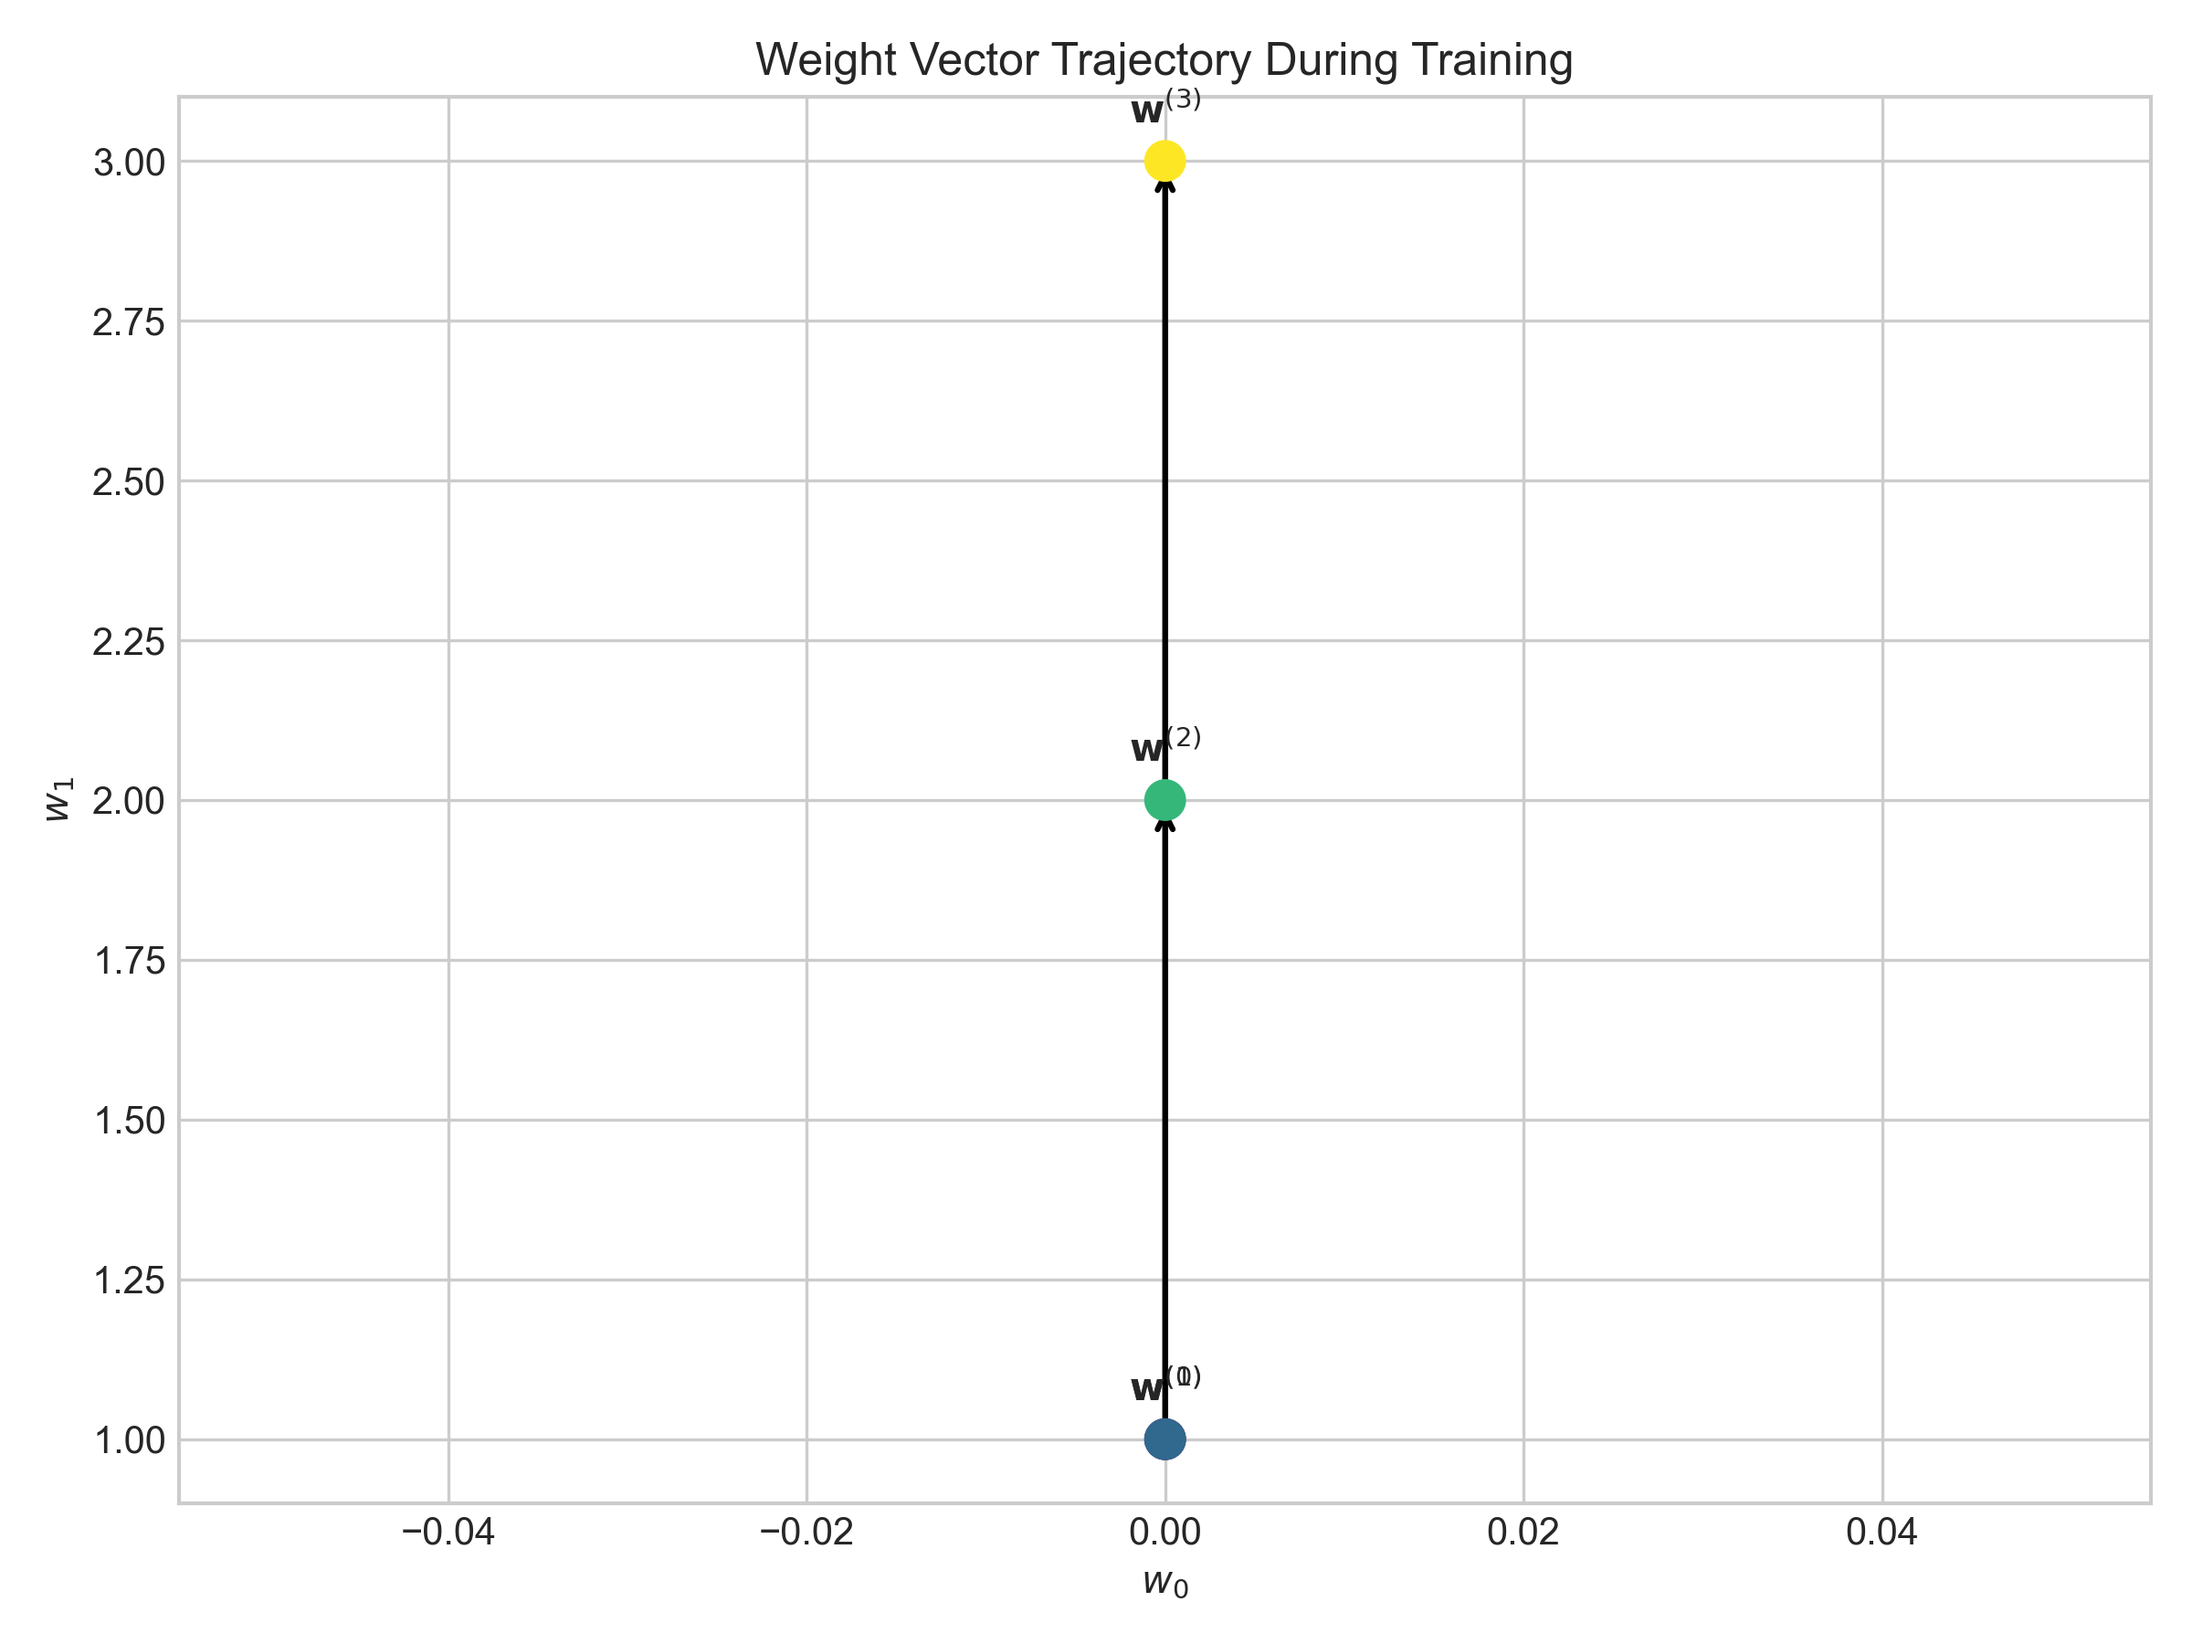
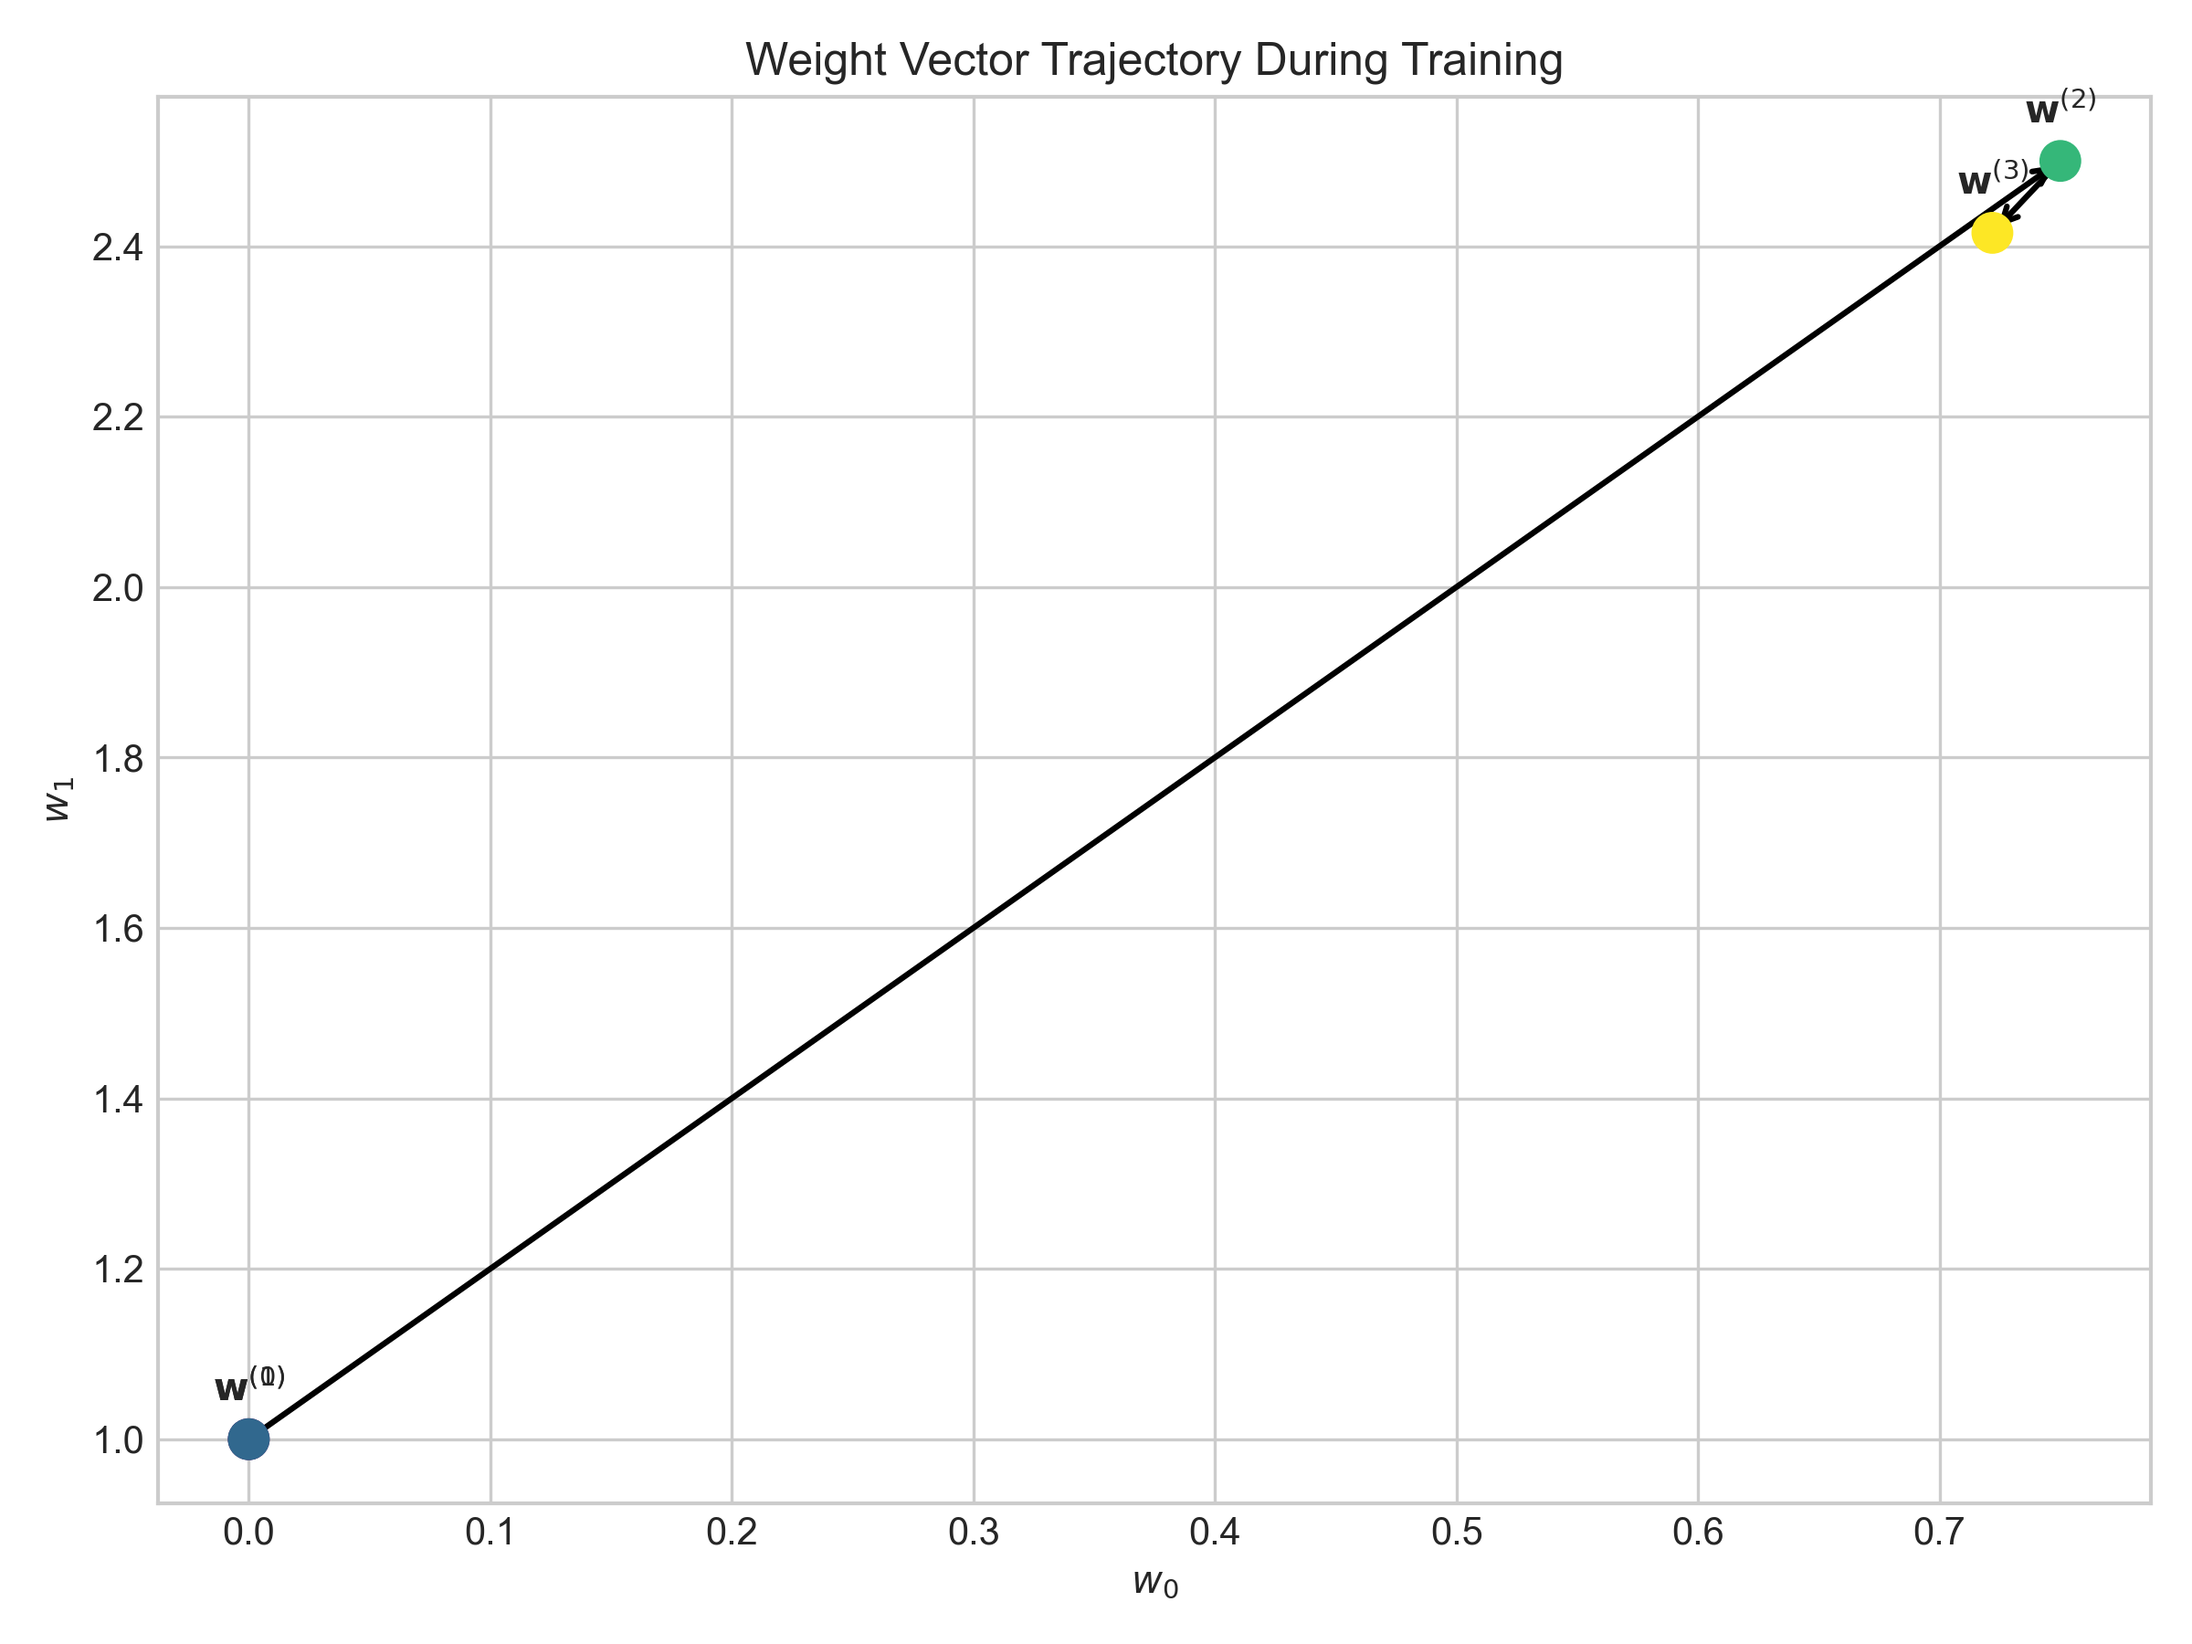
fix

diff --git a/ML_Obsidian_Vault/Lectures/3/Codes/L3_5_25_solution.py b/ML_Obsidian_Vault/Lectures/3/Codes/L3_5_25_solution.py
@@ -52,10 +52,9 @@ gamma = 0.5  # Scaling factor for error-dependent learning rate
 # Create a detailed function to implement the adaptive LMS update with verbose calculations
 def adaptive_lms_update_detailed(w, x, y, alpha0, gamma):
     # Step 1: Calculate prediction
-    prediction = 0
-    for i in range(len(w)):
-        prediction += w[i] * x[i]
-        print(f"   - w[{i}] * x[{i}] = {w[i]} * {x[i]} = {w[i] * x[i]}")
+    prediction = np.dot(w, x)
+    print(f"   - w[0] * x[0] = {w[0]} * {x[0]} = {w[0] * x[0]}")
+    print(f"   - w[1] * x[1] = {w[1]} * {x[1]} = {w[1] * x[1]}")
     print(f"   - Prediction: w^T * x = {prediction}")
     
     # Step 2: Calculate error
@@ -73,16 +72,14 @@ def adaptive_lms_update_detailed(w, x, y, alpha0, gamma):
     print(f"   - α_t = α_0 * (1 + γ * |error|) = {alpha0} * {one_plus_gamma_error} = {alpha_t}")
     
     # Step 4: Update weights
-    w_new = np.zeros_like(w)
+    update_term = alpha_t * error * x
+    w_new = w + update_term
     print(f"   - Calculating new weights:")
     print(f"     - Original weights: w = {w}")
     print(f"     - Update term: α_t * error * x = {alpha_t} * {error} * {x}")
-    
-    update_term = alpha_t * error * x
     print(f"     - Which equals: [{', '.join([str(val) for val in update_term])}]")
     
     for i in range(len(w)):
-        w_new[i] = w[i] + update_term[i]
         print(f"     - w_new[{i}] = w[{i}] + update_term[{i}] = {w[i]} + {update_term[i]} = {w_new[i]}")
     
     print(f"   - New weights: w_new = {w_new}")
